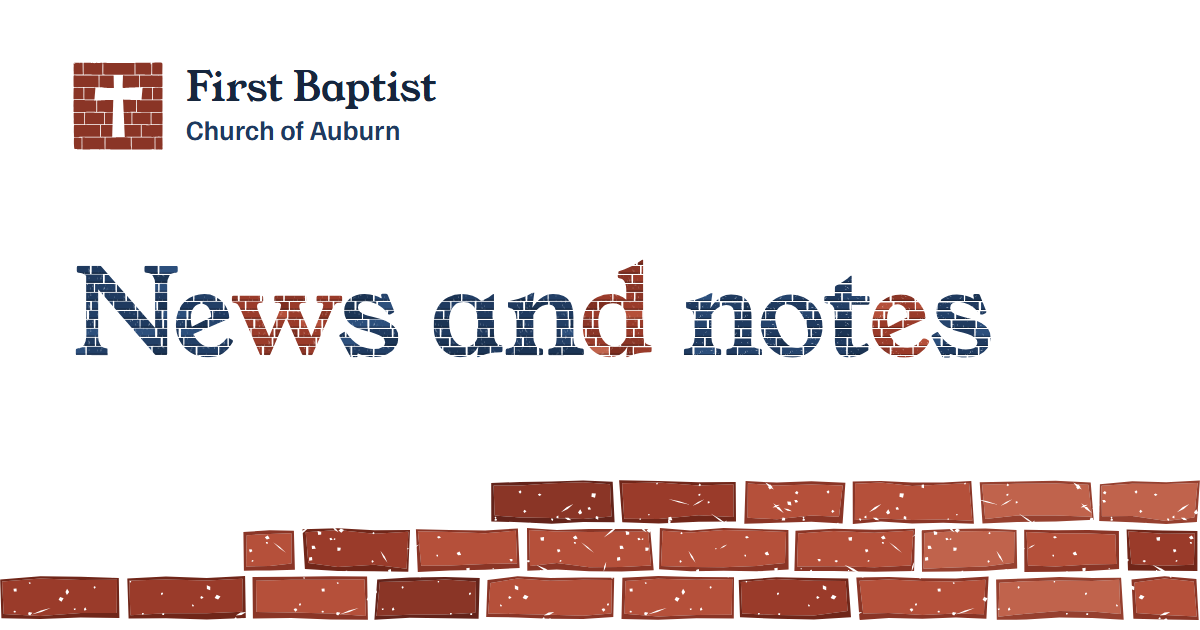
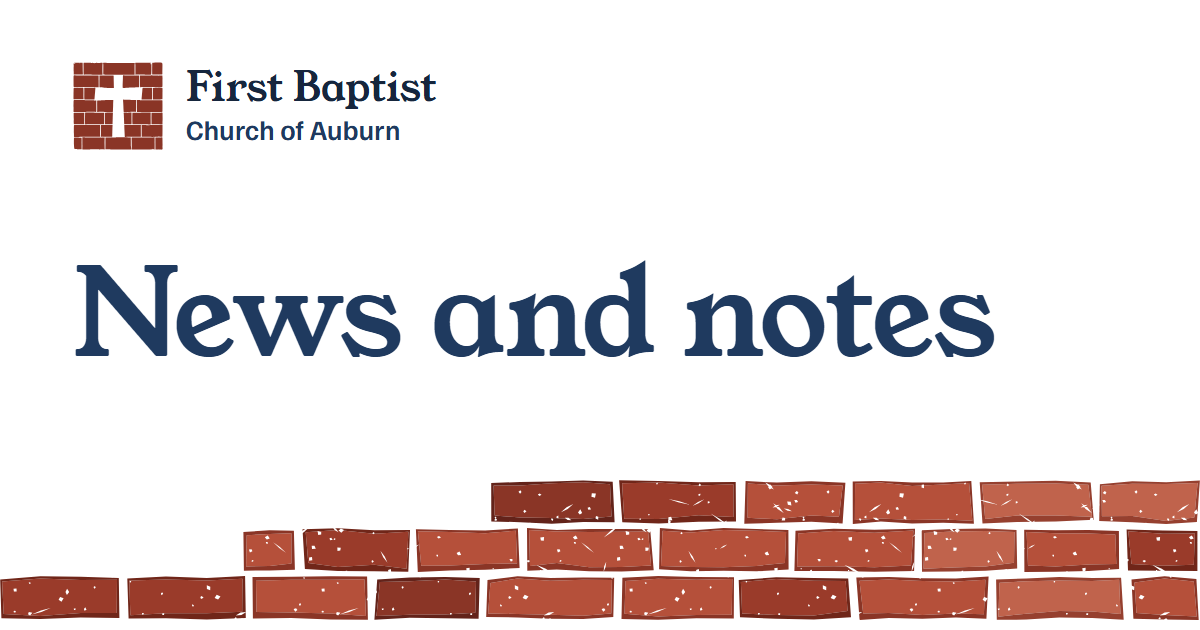
Drop the brick letters from share cards and sermon art too
The share cards set the title and the Home card's "Auburn" in plain navy Young Serif
(all regenerated, plus first cards for events, next steps and prayer), and the sermon
and series art with no picture sets its word in plain cream type. The letter generator
stays in scripts/lib, unused.

Changed region(s): [[0.0617, 0.4222, 0.8325, 0.573]]

diff --git a/src/styles/collections.css b/src/styles/collections.css
@@ -66,8 +66,8 @@
   object-fit: cover;
 }
 /* No picture: series art made of the church's own stones (SermonArt.astro, block polish
-   2026-10-18). A stone tile ground in one of three colours, the gold steps, and the book or title cut
-   out of a brick wall, one wall per word. The word is sized in
+   2026-10-18). A stone tile ground in one of three colours, the gold steps, and the book or title in
+   plain cream type. The word is sized in
    container units, so it fills a small card and a wide player alike. */
 .c-art--blank {
   container-type: inline-size;
@@ -91,13 +91,14 @@
 }
 .c-art__word {
   max-width: 100%;
-  /* Each word is a brick wall with the word cut out of it (an SVG sized in em, from SermonArt.astro),
-     so the font-size here is the word's size and the walls wrap like words. */
+  /* The series' word in plain cream Young Serif on the stone ground (it was cut out of brick walls
+     until 2026-10-24); the font-size is set from the word's length in SermonArt.astro. */
+  font-family: var(--font-display);
   font-size: var(--word, 2rem);
-  line-height: 1;
-  display: flex;
-  flex-wrap: wrap;
-  gap: 0.12em 0.2em;
+  line-height: 1.05;
+  letter-spacing: -0.01em;
+  color: #fbf8f3;
+  text-wrap: balance;
 }
 /* With the play stone in the middle, the word stays small enough to sit under it. */
 .c-art--blank:has(.c-art__play) .c-art__word {

diff --git a/src/styles/home-board.css b/src/styles/home-board.css
@@ -259,7 +259,11 @@
 .hb-belong {
   position: relative;
   isolation: isolate;
-  padding-bottom: var(--hb-rhythm); /* it ends on the navy ground, so it pads its own foot */
+}
+/* It ends on the navy ground, so it pads its own foot. Doubled class so it beats the later
+   `.hb-section` padding-block rule, which zeroed this and left the photos flush on the band's edge. */
+.hb-section.hb-belong {
+  padding-bottom: var(--hb-rhythm);
 }
 .hb-belong::before {
   content: '';

diff --git a/docs/claude/build-and-scripts.md b/docs/claude/build-and-scripts.md
@@ -14,8 +14,8 @@ Standalone scripts:
 
 - `npm run typegen` to regenerate Sanity TypeScript types after editing schemas (run this after any schema change before testing locally).
 - `npm run gen:stones` runs `scripts/gen-stones.mjs` (generators in `scripts/lib/stone-mosaic.mjs`): Home's board E stone art, the wide and phone stone paths and the section markers into `src/components/home/stones.generated.ts`, and the mosaic tiles into `public/textures/`, plus `public/textures/print-flecks.svg` for the bricks drawn in CSS. Every brick takes the linocut finish from `scripts/lib/brick-print.mjs` (chipped edges, a darker rim, flecks as a mask; tested by `brick-print.test.mjs`); renderers swap the `__ID__` in the `*_PRINT` mask defs for an id unique in the page. Seeded, so the output is byte-identical every run; it is committed (and prettier-ignored), and `stone-mosaic.test.mjs` fails if it is stale. Change a seed only on purpose: the current ones are the approved design.
-- `npm run gen:letters` runs `scripts/gen-brick-font.mjs`: it bakes the Young Serif outlines and kerning pairs (ASCII only) into `scripts/lib/brick-font.generated.mjs`, which `scripts/lib/brick-letters.mjs` (`brickWord`, `wallWord`) draws the brick letterforms from. Run it only if the font changes; the generator itself reads no files, so it also runs in the Worker. Unit-tested in `src/lib/brick-letters.test.ts`.
-- `npm run og` and `npm run og:pages` draw the share images (`public/og-default.png`, one `public/og/<route>.png` per route) through `scripts/lib/og-card.mjs`, the Auburn card (lockup, brick-letter title, brick wall). Titles and the tagline come from Sanity. Deterministic: a file is rewritten only when its bytes change. Re-run after a title or page changes; how a new route or collection gets a card: OPERATIONS.md, "Share images".
+- `npm run gen:letters` (unused since 2026-10-24, when the brick letters were retired from every heading, card and picture) runs `scripts/gen-brick-font.mjs`: it bakes the Young Serif outlines and kerning pairs (ASCII only) into `scripts/lib/brick-font.generated.mjs`, which `scripts/lib/brick-letters.mjs` (`brickWord`, `wallWord`) draws the brick letterforms from. Run it only if the font changes; the generator itself reads no files, so it also runs in the Worker. Unit-tested in `src/lib/brick-letters.test.ts`.
+- `npm run og` and `npm run og:pages` draw the share images (`public/og-default.png`, one `public/og/<route>.png` per route) through `scripts/lib/og-card.mjs`, the Auburn card (lockup, plain navy title, brick wall). Titles and the tagline come from Sanity. Deterministic: a file is rewritten only when its bytes change. Re-run after a title or page changes; how a new route or collection gets a card: OPERATIONS.md, "Share images".
 - `npm run apply-brand` to deterministically rewrite `globals.css` tokens, `src/data/site.ts`, Studio theme inputs, font imports, and the OG image based on `brand/brand.config.json`. Idempotent -- safe to re-run. It also checks the Studio identity (the title comes from `name`; it warns when `public/favicon.svg` is still the starter's mark and rejects a non-hex `studio.accent`; PORTS.md card 110). Also validates and writes the `layout` block to `src/data/layout.ts` (header, hero, density, cards variants; defaults are the original layout). `npm run test:visual` also shoots `/styleguide/layouts/` (`tests/visual/layouts.spec.ts`).
 - `npm run audit:studio` runs `scripts/audit-studio.mjs`, a read-only audit of the seven Studio faults that a build, a type check and a test all pass: a field that is hidden AND required (permanently invalid document, error naming a field nowhere on screen), a preview title taken from a number (crashes the whole array field), a stored key the schema does not declare (puts the "Remove field" button in front of an editor, CLAUDE.md rule 1), a page slug on the reserved-route list, a collection whose "Used on" entry disagrees with the pages that render it, a required field blank in the live data, and money typed into prose beside a structured price field. Checks 1 and 2 read only the schema and run on a fresh clone; the rest need a configured project. Exits non-zero on a finding. PORTABLE, ported from the Stone Steps build. A field declared once as a module-level `const x = defineField({ name: 'x', ... })` and listed by bare identifier in several types is credited to each of them (`scripts/lib/shared-field-consts.mjs`, PORTS.md card 81); before that, check 3 reported every stored copy of such a field as "Remove field" bait. The starter's own schema declares none, so its output is unchanged.
 - `npm run audit:data` runs `scripts/audit-data-vs-schema.mjs` (PORTABLE, PORTS.md card 95), a read-only walk of every stored document and its draft against the schema Sanity itself compiles: an array object with no `_type` (the Studio's "Item of type object not valid for this list") or no `_key`, a `_type` the array does not allow, a stored key the schema does not declare (the orphan behind the "Unknown fields" banner), a value of the wrong kind, a dropdown value outside its list, and documents of a type the schema lacks. Exits 1 on a finding. It loads the TypeScript schema in plain Node through `scripts/lib/load-schema.mjs` (Node's type stripping plus resolve hooks for extensionless imports and the `@/` alias, with `.tsx` Studio components stubbed), so there is no `tsx` dependency. `scripts/backfill-array-types.mjs` adds the missing `_type`; it is dry by default and writes only with `--apply` and, on production, `NCS_PRODUCTION_WRITE=yes`. Needs a configured project and a token.

diff --git a/DESIGN.md b/DESIGN.md
@@ -54,7 +54,7 @@ running-bond tiles; the walk's numbered stones are numbered bricks. Generated by
 `npm run gen:stones` from `scripts/lib/brick-courses.mjs` (decision:
 `docs/design-directions/2026-10-21-brick-path/`). The letterforms followed the same evening
 (see "Brick letterforms" under Typography): the masthead "Auburn" and the page H1s (the footer signature was retired 2026-10-24)
-are brick-filled letters, and the 404 headline and the sermon art with no picture are cut out of a wall.
+were brick-filled letters, and the 404 headline and the sermon art with no picture were cut out of a wall. All of them went back to plain Young Serif on 2026-10-24 (too busy).
 
 Update 2026-10-17, the bold home pass: Home carries a full-height ribbon of stones in the four
 mark colours (`StoneRibbon.astro`, `src/scripts/ribbon.ts`) on a plain white page with no tinted
@@ -111,7 +111,7 @@ printed into `src/assets/brand/`). The old seven colours are gone from the CSS, 
   paper and painted in navy (pale navy in the footer) through `BuildingSketch.astro`. Used as the
   About "Our building" band and as the Plan your visit walk's opener with the
   front door pinned. Master and notes: `brand/illustration/`.
-- **Brick letterforms**, now only for art and share cards (2026-10-24: Nathan dropped them from every page heading as too busy; the page H1s and the 404 headline are plain navy Young Serif through `StoneHeading.astro`, and what follows describes the generator as the share cards and sermon art still use it). Decided 2026-10-21 for the big headings ( sheet 13 in
+- **Brick letterforms: retired 2026-10-24.** Nathan dropped them everywhere as too busy: the page H1s and the 404 headline are plain navy Young Serif through `StoneHeading.astro`, the share cards set the title (and the Home card's "Auburn") in plain navy, and the sermon and series art with no picture sets its word in plain cream type. The generator and its tests stay in `scripts/lib/` unused, in case a single moment wants it back; what follows is the history. Decided 2026-10-21 for the big headings ( sheet 13 in
   `docs/design-directions/2026-10-21-brick-path/`; they replaced "Auburn Stone", Young Serif split into
   pebbles). Treatment A, brick-filled letters: each letter is a clean Young Serif glyph filled with a
   running-bond field in navy tones (the pale navy set on the dark footer), joints a hairline that
@@ -177,7 +177,6 @@ brick-cross print on the Stone tint, never a grey box.
 - Do make every layout work with no photographs, and better with one.
 - Do mark unconfirmed facts (service times, the verse) until the church confirms them.
 - Don't put mosaic colour on H2s, borders, dividers or backgrounds.
-- Don't draw brick letters below 40 px; the brick needs height to read.
 - Don't use light auburn or light navy as text on the ground.
 - Don't use stock photography, crowd shots or anything that makes the church look bigger than it is.
 - Don't reuse the Muncie site's paper-and-ink ground, titling masthead or indigo bands.

diff --git a/docs/agent/changelog.md b/docs/agent/changelog.md
@@ -4,7 +4,7 @@ _2026-10-24: page headings are plain type, not brick._
 
 **Decision.** Nathan found the brick-letter H1s too busy. `StoneHeading.astro` (every inner page head through
 `BoardPageHead`, and `ArchHero`) now renders plain Young Serif in deep navy, and the 404's brick-wall headline went the
-same way. The generator (`scripts/lib/brick-letters.mjs`) stays for the share cards and the sermon and series art.
+same way. Then the rest: the share cards (`scripts/lib/og-card.mjs`, all 19 regenerated, plus first cards for events, next steps and prayer) set the title and the Home "Auburn" in plain navy, and the sermon and series art with no picture sets its word in plain cream type (`SermonArt.astro`, `.c-art__word`). The generator (`scripts/lib/brick-letters.mjs`), its tests and the flow layer's `lay` kind stay, unused.
 
 _2026-10-24: every Studio icon is brick._
 

diff --git a/OPERATIONS.md b/OPERATIONS.md
@@ -729,9 +729,9 @@ Note: the MCP lighthouse_audit only returns Accessibility / BP / SEO / Agentic. 
 ## Share images (Open Graph)
 
 Every route shares a 1200x630 card in the church's brand: the lockup top left, the page title in
-brick letters (navy brick with every fourth letter in auburn; plain navy type when it needs three lines),
+plain navy Young Serif (brick letters until 2026-10-24),
 and the brick wall across the foot. Home and the fallback `public/og-default.png` use the masthead
-(mark, "First Baptist Church of", Auburn in brick letters) with the Site settings tagline. Drawn by
+(mark, "First Baptist Church of", Auburn in plain navy type) with the Site settings tagline. Drawn by
 `scripts/lib/og-card.mjs` (site-specific; the starter's PORTABLE `scripts/lib/render-og.mjs` is
 no longer called here). PNGs are committed; CI never draws them.
 

diff --git a/docs/agent/animation.md b/docs/agent/animation.md
@@ -169,7 +169,7 @@ bottom course first, brick by brick along it, back the other way on the next cou
 set down with a small tap (`brick-set`: drops from 70% of its height above, lands 5% low and
 squashed, settles).
 
-- Brick-letter titles (`StoneHeading` mosaic) are flow unit kind `lay`, not `lines`. The
+- Brick-letter titles (`StoneHeading` mosaic, retired 2026-10-24, so nothing on the site uses `lay` today) are flow unit kind `lay`, not `lines`. The
   generator (`scripts/lib/brick-letters.mjs`, `paintCourses`) groups each word's bricks by
   course: `<g class="bl-c">` with `--o` (its turn, bottom course first; courses are numbered
   from the baseline so every word on a line shares them) and `--b` (its brick count); odd
